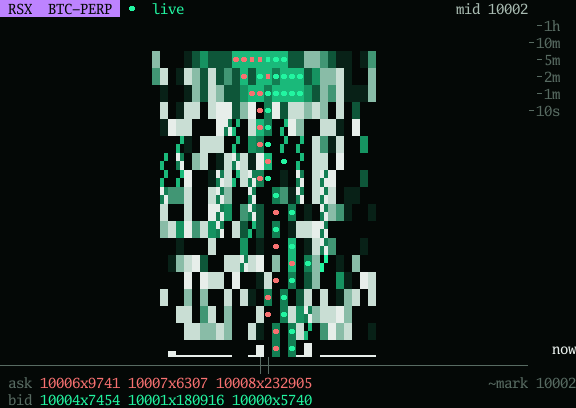
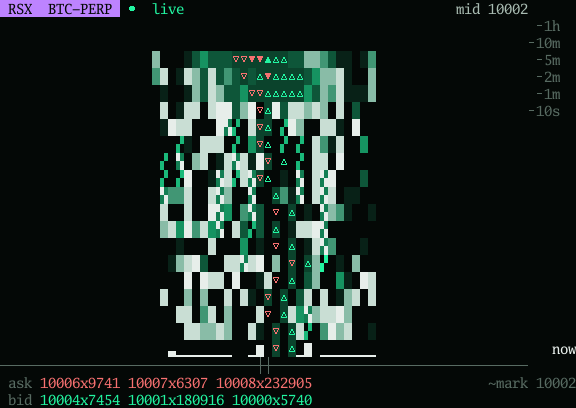
[glass] Mirror side-by-shape trade ramps; overlay cap; UseTheme seam
Mirrors the [term] visual-language fix (rsx-term/notes/trade-side.md):

- heat.go: per-side trade ramps (buy up / sell down triangles), overlay
  background capped at tier 1 (uncapped, a buy print on a tier-4 wall was
  Live-on-Live fg==bg, 1.00:1; worst pair now 3.91:1).
- atlas: triangle primitives (small/large x hollow/filled, up/down),
  link-dot disc kept.
- grid.go: UseTheme colorblind rebind (bid/ask pair only) — the seam
  CLAUDE.md already claimed; wired to RSX_TUI_THEME in cmd/glass.
- TestGlyphContrast now covers both themes AND the aggressor inks over
  every allowed overlay background; TestTradeSideByShape asserts the
  redundant channel.
- soft/testdata/heatmap.png re-blessed: visually confirmed the only drift
  is the intended one (side-polar triangles on capped dark overlay bg;
  prints now legible inside the wall band). degraded.png unchanged.
- SPEC.md: hue-only-side deviation marked FIXED; Muted APCA debt recorded.

Gates: go test ./..., CGO_ENABLED=0 go test ./..., xvfb-run gpu parity
maxDiff=1 over 705,024 channels (0 over 1).

Changed region(s): [[0.4062, 0.1176, 0.5625, 0.8824]]

diff --git a/rsx-glass/heat.go b/rsx-glass/heat.go
@@ -21,9 +21,10 @@ import (
 // a desktop renderer owns — the channel survives, the terminal glyph does not.
 //
 // v1 is a read-only heatmap viewer. The pruned element set (vs rsx-term):
-//   KEEP  size ramp (bg), count density, persistence ▚, trade layer ○◆●■,
-//         NOW-row live bars, honesty markers — and ~, the touch ladder, gutter
-//         time labels, the fisheye ruler, the link dot.
+//   KEEP  size ramp (bg), count density, persistence ▚, trade layer ▵▴△▲/▿▾▽▼
+//         (side by shape + aggressor hue), NOW-row live bars, honesty markers
+//         — and ~, the touch ladder, gutter time labels, the fisheye ruler,
+//         the link dot.
 //   CUT   news rail, own-order glyphs / cursor (no input in v1), keycast, the
 //         classic DOM view, the truecolour→plain degradation ladder (a GPU is
 //         always full-colour), the tape rail.
@@ -42,9 +43,10 @@ const persistThreshold = 30 * time.Second
 // means exactly one thing; the software atlas draws the non-ASCII ones as
 // primitives (real rectangles/shapes), which is what the GPU layer is for.
 var (
-	countRamp = []rune{' ', '░', '▒', '▓', '█'} // resting order-count density
-	tradeRamp = []rune{'○', '◆', '●', '■'}      // trade magnitude, aggressor-hued
-	microRamp = []rune{'▁', '▂', '▃', '▄', '▅', '▆', '▇', '█'}
+	countRamp     = []rune{' ', '░', '▒', '▓', '█'} // resting order-count density
+	tradeBuyRamp  = []rune{'▵', '▴', '△', '▲'}      // buy magnitude, up = lifts the offer
+	tradeSellRamp = []rune{'▿', '▾', '▽', '▼'}      // sell magnitude, down = hits the bid
+	microRamp     = []rune{'▁', '▂', '▃', '▄', '▅', '▆', '▇', '█'}
 )
 
 const persistGlyph = '▚'
@@ -207,7 +209,15 @@ func bookCell(c cellAgg, refMax, tradeMax int64, isNow bool) Cell {
 	sz := sizeTier(c.size, refMax)
 	bg := rampColor(sz)
 	if c.tradeQty > 0 {
-		return Cell{Bg: bg, Fg: aggressor(c.tradeSide), Glyph: tradeRamp[tradeTier(c.tradeQty, tradeMax)-1]}
+		// Side is a SHAPE (up = buy, down = sell) with the aggressor hue as
+		// the redundant channel, over the overlay background — the size ramp
+		// capped at overlayBgTier so the ink always clears 3:1 (uncapped, a
+		// buy print on a tier-4 wall was fg==bg — invisible). rsx-term rule.
+		return Cell{
+			Bg:    rampColor(overlayTier(sz)),
+			Fg:    aggressor(c.tradeSide),
+			Glyph: tradeGlyph(c.tradeSide, tradeTier(c.tradeQty, tradeMax)),
+		}
 	}
 	if isNow {
 		if c.size <= 0 {
@@ -354,11 +364,34 @@ func relLuma(c color.RGBA) float64 {
 func sizeTier(size, refMax int64) int { return logTier(size, refMax, sizeTiers) }
 
 func tradeTier(qty, refMax int64) int {
-	t := logTier(qty, refMax, len(tradeRamp))
+	t := logTier(qty, refMax, len(tradeBuyRamp))
 	if t < 1 {
 		t = 1
 	}
 	return t
+}
+
+// tradeGlyph picks the side's shape ladder (rsx-term VISUALS.md): buys point
+// up, sells point down — side survives colour-vision loss; hue is redundant.
+func tradeGlyph(side wire.Side, tier int) rune {
+	if side == wire.Sell {
+		return tradeSellRamp[tier-1]
+	}
+	return tradeBuyRamp[tier-1]
+}
+
+// overlayBgTier is the highest size-ramp tier a trade overlay may use as its
+// background (see overlayTier).
+const overlayBgTier = 1
+
+// overlayTier caps a trade overlay's background at overlayBgTier so both
+// aggressor inks keep >= 3:1 against it in both themes (asserted by
+// TestGlyphContrast). Measured worst pair after the cap: 3.91:1.
+func overlayTier(sz int) int {
+	if sz > overlayBgTier {
+		return overlayBgTier
+	}
+	return sz
 }
 
 // microIdx maps a NOW-row size to a linear eighth-block bar 0..len-1.

diff --git a/rsx-glass/heat_test.go b/rsx-glass/heat_test.go
@@ -62,19 +62,64 @@ func TestHonestyMarkers(t *testing.T) {
 	}
 }
 
-// TestGlyphContrast is the reserved-contrast-pair gate: every size-ramp
-// background a density / persistence / live glyph can sit on must give the
-// chosen glyph foreground >= 3:1 (WCAG 1.4.11 non-text minimum). It would have
-// caught the old fg = "ramp one tier up" encoding, which collapsed to fg==bg at
-// the top tier — an invisible glyph the goldens happily locked in.
+// TestGlyphContrast is the reserved-contrast-pair gate: every background a
+// glyph can sit on must give its ink >= 3:1 (WCAG 1.4.11 non-text minimum),
+// in BOTH themes. It would have caught the old fg = "ramp one tier up"
+// encoding (fg==bg at the top tier — the invisible wall glyph) AND the
+// uncapped trade overlay (a buy print on a tier-4 wall was Live-on-Live,
+// 1.00:1). The goldens can't see this: they lock stability, not visibility.
 func TestGlyphContrast(t *testing.T) {
 	const minRatio = 3.0
-	for tier := 0; tier <= sizeTiers; tier++ {
-		bg := rampColor(tier)
-		if r := contrastRatio(glyphFg(bg), bg); r < minRatio {
-			t.Errorf("tier %d: glyph fg contrast %.2f:1 < %.1f:1 (invisible/near-invisible glyph)", tier, r, minRatio)
+	t.Cleanup(func() { UseTheme("") })
+	for _, theme := range []string{"", "colorblind"} {
+		UseTheme(theme)
+		name := theme
+		if name == "" {
+			name = "default"
+		}
+		// Reserved density / persistence / micro glyph inks, every ramp tier.
+		for tier := 0; tier <= sizeTiers; tier++ {
+			bg := rampColor(tier)
+			if r := contrastRatio(glyphFg(bg), bg); r < minRatio {
+				t.Errorf("%s: tier %d glyph fg %.2f:1 < %.1f:1 (invisible/near-invisible glyph)", name, tier, r, minRatio)
+			}
+		}
+		// Trade overlay inks (both aggressor hues) on every background the
+		// overlay cap allows.
+		for tier := 0; tier <= overlayBgTier; tier++ {
+			bg := rampColor(tier)
+			for side, ink := range map[string]color.RGBA{"buy": aggressor(wire.Buy), "sell": aggressor(wire.Sell)} {
+				if r := contrastRatio(ink, bg); r < minRatio {
+					t.Errorf("%s: %s ink on overlay tier %d = %.2f:1 < %.1f:1", name, side, tier, r, minRatio)
+				}
+			}
 		}
 	}
+}
+
+// TestTradeSideByShape asserts the redundant channel: a buy and a sell of the
+// same magnitude render DIFFERENT glyphs (side survives without hue).
+func TestTradeSideByShape(t *testing.T) {
+	buy := bookCell(cellAgg{size: 100, tradeQty: 500, tradeSide: wire.Buy}, 1000, 1000, false)
+	sell := bookCell(cellAgg{size: 100, tradeQty: 500, tradeSide: wire.Sell}, 1000, 1000, false)
+	if buy.Glyph == sell.Glyph {
+		t.Fatalf("buy and sell prints share glyph %q — side is hue-only", buy.Glyph)
+	}
+	if !containsRune(tradeBuyRamp, buy.Glyph) {
+		t.Fatalf("buy glyph %q not from the buy ramp", buy.Glyph)
+	}
+	if !containsRune(tradeSellRamp, sell.Glyph) {
+		t.Fatalf("sell glyph %q not from the sell ramp", sell.Glyph)
+	}
+}
+
+func containsRune(rs []rune, r rune) bool {
+	for _, c := range rs {
+		if c == r {
+			return true
+		}
+	}
+	return false
 }
 
 func hasGlyph(g *Grid, r rune) bool {

diff --git a/rsx-glass/atlas/atlas.go b/rsx-glass/atlas/atlas.go
@@ -126,12 +126,21 @@ func (a *Atlas) drawPrimitives() {
 		return 0
 	})
 
-	// Trade layer ○◆●■: ascending-ink distinct shapes, so flow never reads as
-	// resting liquidity. Sized small→large to carry magnitude.
-	a.masks['○'] = a.ring(0.30)
-	a.masks['◆'] = a.diamond(0.34)
+	// Trade layer ▵▴△▲ (buys) / ▿▾▽▼ (sells): mirrored ascending-ink shape
+	// ladders — side by polarity (up = lifts, down = hits), magnitude by
+	// size+fill — so flow never reads as resting liquidity and side never
+	// rides on hue alone (rsx-term VISUALS.md).
+	a.masks['▵'] = a.triangle(0.30, true, false)
+	a.masks['▴'] = a.triangle(0.30, true, true)
+	a.masks['△'] = a.triangle(0.44, true, false)
+	a.masks['▲'] = a.triangle(0.44, true, true)
+	a.masks['▿'] = a.triangle(0.30, false, false)
+	a.masks['▾'] = a.triangle(0.30, false, true)
+	a.masks['▽'] = a.triangle(0.44, false, false)
+	a.masks['▼'] = a.triangle(0.44, false, true)
+
+	// Header link dot ●.
 	a.masks['●'] = a.disc(0.40)
-	a.masks['■'] = a.square(0.42)
 
 	// Chrome: link dot (a small disc), ruler baseline, touch tick, honesty dash.
 	a.masks['·'] = a.disc(0.14)
@@ -189,12 +198,29 @@ func (a *Atlas) ring(rf float64) []byte {
 	})
 }
 
-func (a *Atlas) diamond(rf float64) []byte {
-	return a.shape(rf, func(dx, dy, r float64) bool { return math.Abs(dx)+math.Abs(dy) <= r })
-}
-
-func (a *Atlas) square(rf float64) []byte {
-	return a.shape(rf, func(dx, dy, r float64) bool { return math.Abs(dx) <= r*0.8 && math.Abs(dy) <= r*0.8 })
+// triangle draws an isoceles up/down triangle, filled or as an outline band —
+// the trade layer's side-by-shape ladder (small/large × hollow/filled).
+func (a *Atlas) triangle(rf float64, up, filled bool) []byte {
+	// In "up" space: apex at dy=-r, base at dy=+r, half-width (dy+r)/2.
+	in := func(dx, dy, r float64) bool {
+		return dy >= -r && dy <= r && math.Abs(dx) <= (dy+r)/2
+	}
+	return a.shape(rf, func(dx, dy, r float64) bool {
+		if !up {
+			dy = -dy
+		}
+		if !in(dx, dy, r) {
+			return false
+		}
+		if filled {
+			return true
+		}
+		// Hollow: cut a copy scaled about the centroid (dy = r/3), leaving
+		// an outline band ~r/3 wide — readable at the tiny cell size.
+		const k = 1.5
+		cy := r / 3
+		return !in(dx*k, (dy-cy)*k+cy, r)
+	})
 }
 
 func (a *Atlas) hline() []byte {

diff --git a/rsx-glass/grid.go b/rsx-glass/grid.go
@@ -94,6 +94,21 @@ var (
 	Degraded   = hexColor("#fbbf24") // stale / offline / degraded
 )
 
+// UseTheme swaps only the bid/ask pair for accessibility — the same seam as
+// rsx-term's ui.UseTheme (RSX_TUI_THEME): "colorblind" replaces the red-green
+// pair (invisible under deuteranopia/protanopia) with blue(bid)/orange(ask);
+// any other name restores the default. Call once at startup, before the first
+// Compose; the render reads the vars per frame, so there is no rebuild step.
+func UseTheme(name string) {
+	if name == "colorblind" {
+		Live = hexColor("#2f9bff")
+		Ask = hexColor("#ff9e3d")
+	} else {
+		Live = hexColor("#22f5a1")
+		Ask = hexColor("#f87171")
+	}
+}
+
 // hexColor parses "#rrggbb" into an opaque RGBA.
 func hexColor(h string) color.RGBA {
 	r, g, b := hexRGB(h)

diff --git a/rsx-glass/cmd/glass/main.go b/rsx-glass/cmd/glass/main.go
@@ -10,6 +10,7 @@
 //	               so the viewer runs standalone with no cluster.
 //	RSX_SYMBOL_ID  the symbol to subscribe (default mockx.DefaultSymbolID).
 //	RSX_SYMBOL     display name in the header/title (default "BTC-PERP").
+//	RSX_TUI_THEME  "colorblind" swaps the bid/ask pair (rsx-term's theme seam).
 //
 // It must compile headless; it opens a window, so it runs on a desktop.
 package main
@@ -51,6 +52,7 @@ type config struct {
 func main() {
 	runtime.LockOSThread() // composition root owns the main thread: GLFW lifecycle+events and the GL context all live here
 	log.SetFlags(0)
+	glass.UseTheme(os.Getenv("RSX_TUI_THEME"))
 	cfg := loadConfig()
 
 	ctx, stop := signal.NotifyContext(context.Background(), os.Interrupt, syscall.SIGTERM)

diff --git a/rsx-glass/SPEC.md b/rsx-glass/SPEC.md
@@ -123,10 +123,19 @@ pacing, HiDPI text, or accessibility. What v1 does not yet do:
   once. rsx-term uses a slow-decaying stable basis to stop the strobe; carrying
   that reference state across frames is the v2 fix. The stable-scale RULE cites
   rsx-term's behaviour, not glass's.
-- **Hue-only trade side.** Buy vs sell aggressor is carried by colour alone
-  (green/red on the same `○◆●■` shapes) — a colour-vision trap. The visual
-  language is rsx-term's, so the fix belongs upstream in `rsx-term/VISUALS.md`
-  first (a redundant non-hue channel for side), then flows down here.
+- **Hue-only trade side — FIXED (2026-07-19), upstream then mirrored.** Side
+  is now a shape: mirrored per-side ramps `▵▴△▲` (buy, up = lifts) / `▿▾▽▼`
+  (sell, down = hits) with the aggressor hue as the redundant channel, and the
+  trade-overlay background capped at tier 1 so both inks clear 3:1 (uncapped, a
+  buy print on a tier-4 wall was fg==bg). Fixed in the language
+  (`rsx-term/VISUALS.md`, `notes/trade-side.md`), mirrored here (`heat.go`,
+  `atlas/`), gated by `TestGlyphContrast` + `TestTradeSideByShape`.
+- **Muted ink is APCA-sub-floor.** `#586b62` on the page is WCAG 3.54:1
+  (passes 3:1) but APCA Lc ≈ 23, under the Lc 30 any-text floor — it carries
+  the gutter time labels and `~mark`. Debt, not a local fix: the hex is
+  verbatim-shared with rsx-term, the dashboard, and spec 55; a bump must be a
+  coordinated palette rev (tracked in `rsx-term/VISUALS.md` "Known design
+  debt").
 - **Fixed 14 pt / 1× atlas, no HiDPI text.** The letterbox scales the grid by an
   integer factor with NEAREST — crisp-chunky by design, not re-hinted. Size-
   bucketed atlases rebuilt from content scale are v2.

diff --git a/rsx-glass/CLAUDE.md b/rsx-glass/CLAUDE.md
@@ -43,10 +43,11 @@ are load-bearing here:
 - **Meaning = colour + a VISIBLE redundant channel** (glyph/shape/position);
   hue carries CATEGORY only, never a meaning by hue alone.
 
-Keep RSX's strengths (colour=meaning, glyph-as-shape channel, side=position, the
-`UseTheme` rebind seam, honesty markers) — already ahead of generic HIGs. The v1
-deviations (per-frame autoscale strobe, hue-only trade side) are fixed upstream in
-the visual language, not forked here — see `SPEC.md` "Known v1 deviations".
+Keep RSX's strengths (colour=meaning, glyph-as-shape channel, side=position AND
+side-by-shape trade ramps `▵▴△▲`/`▿▾▽▼`, the `UseTheme` rebind seam, honesty
+markers) — already ahead of generic HIGs. Remaining v1 deviations (per-frame
+autoscale strobe, Muted's APCA debt) get fixed upstream in the visual language,
+not forked here — see `SPEC.md` "Known v1 deviations".
 
 ## Keeper invariants — do NOT regress
 
